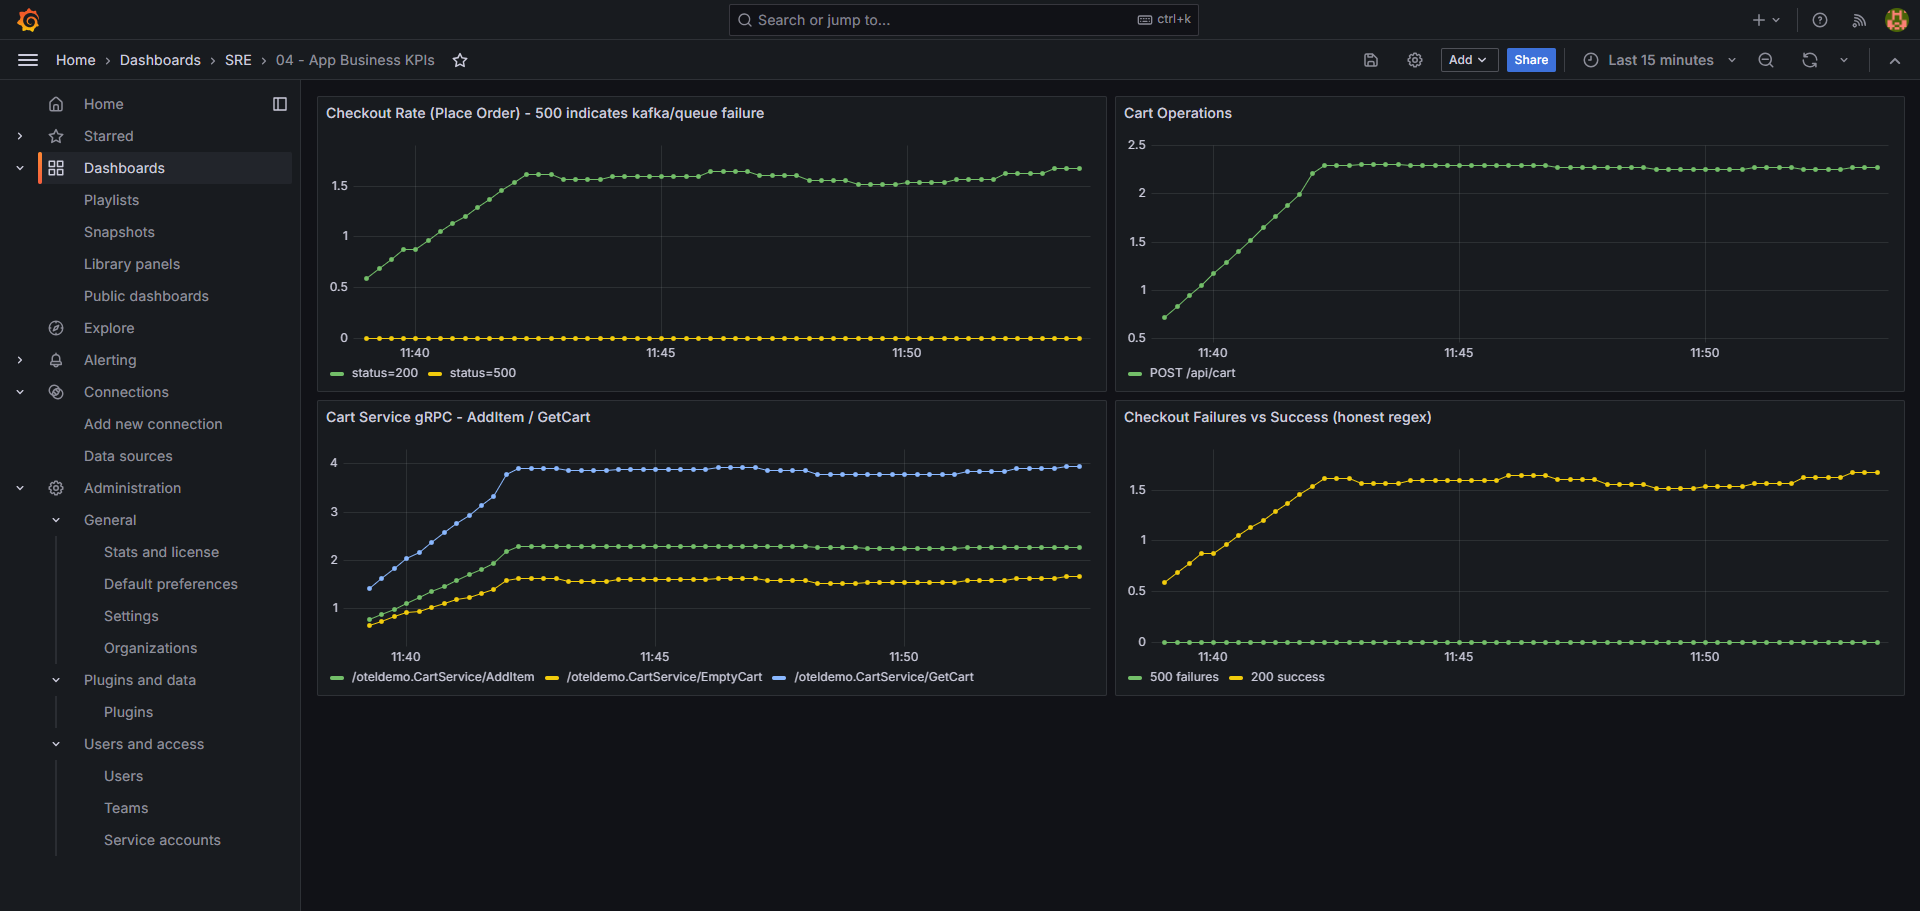
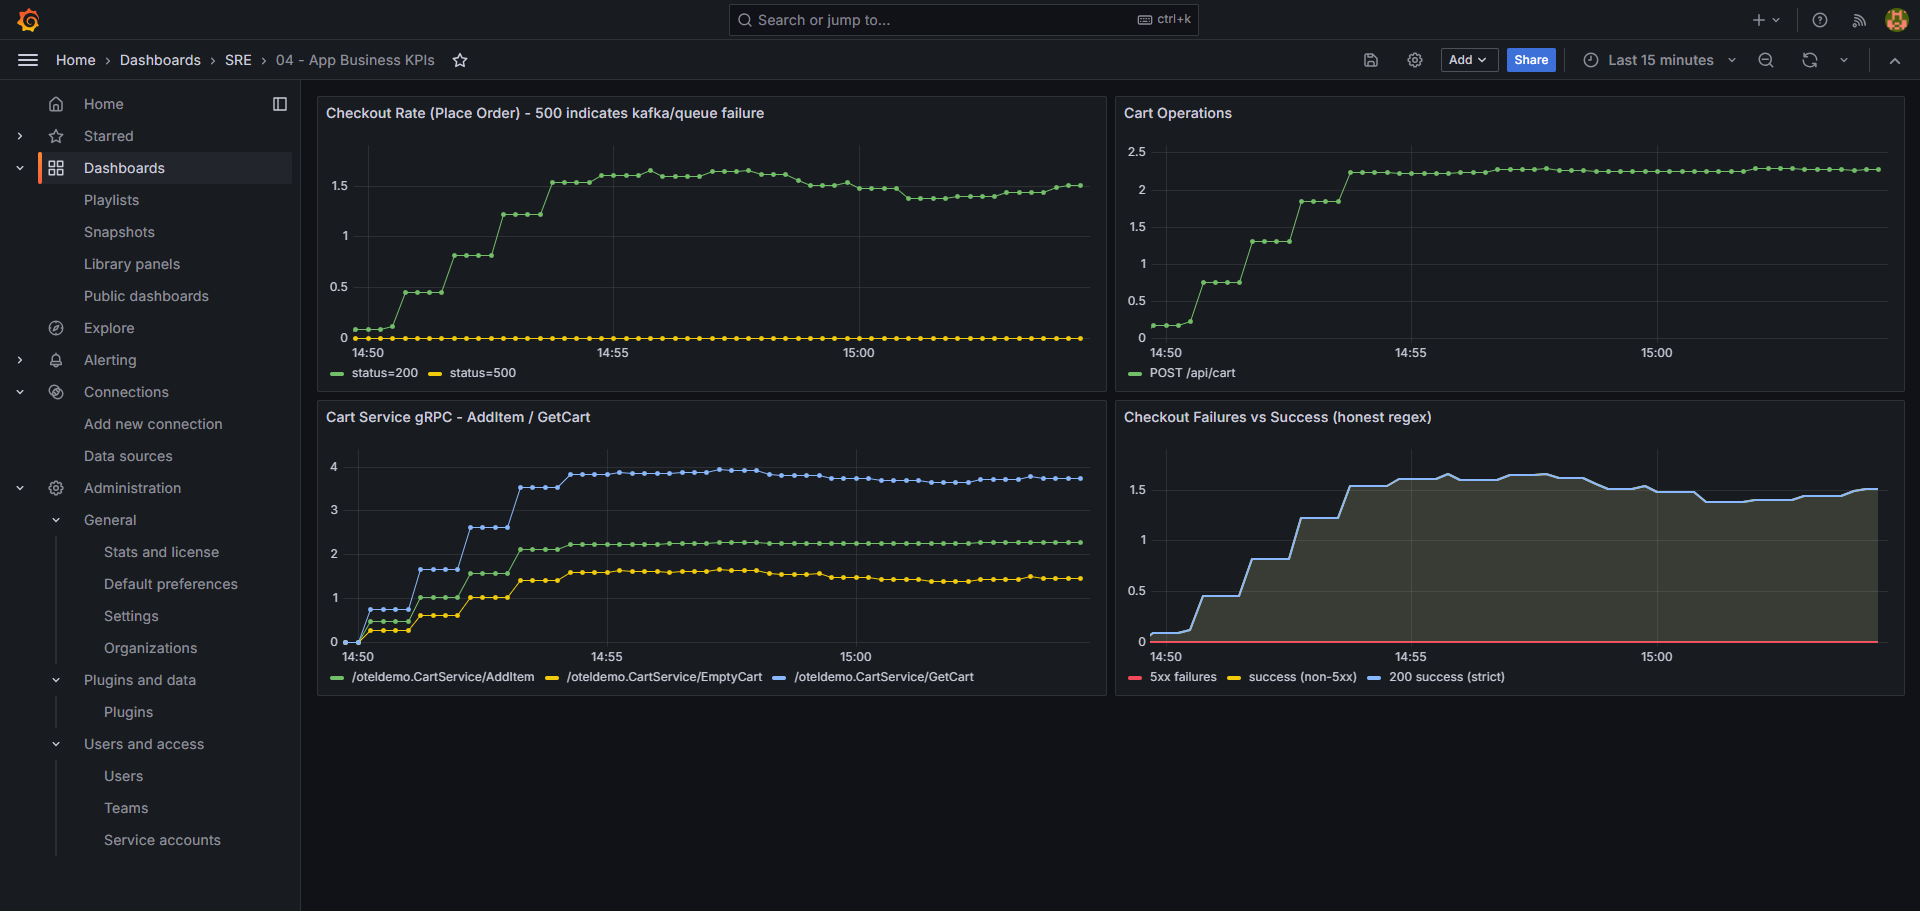
docs: update 05 business KPIs with honest regex - verified with load-test.ps1

diff --git a/README.md b/README.md
@@ -476,7 +476,7 @@ Full: [docs/architecture.md](./docs/architecture.md)
 
 ### 05 - Grafana - App Business KPIs (Checkout Rate, Cart gRPC)
 ![App Business KPIs](docs/images/v1.0/05-App-Business-KPIs.png)
-*Dashboard: 04 - App Business KPIs. Panels: `Checkout Rate (Place Order) - 500 indicates kafka/queue failure` showing `target=~".*checkout.*"`, `Cart Operations`, `Cart Service gRPC - AddItem / GetCart`, and `Checkout Failures vs Success (honest regex)` with `status=~"5.."` vs `!~"5.."`. 
+*Dashboard: 04 - App Business KPIs. Panels: `Checkout Rate` (`target=~".*checkout.*"`), `Cart Operations`, `Cart Service gRPC - AddItem / GetCart`, and `Checkout Failures vs Success (honest regex)` with `status=~"5.."` (5xx failures) vs `status=~"2.."` (success). Captures kafka/payment failure mode — catches 502/503, not just 500. Verified with `.\scripts\load-test.ps1 -Users 3`.*
 
 ### 06 - Grafana - Logs/Traces Correlation via Alloy
 ![Logs Traces](docs/images/v1.0/06-grafana-logs-traces.png)
@@ -493,6 +493,22 @@ Full: [docs/architecture.md](./docs/architecture.md)
 ### 09 - Alertmanager → Slack with runbook_url
 ![Slack Alert](docs/images/v1.0/09-slack-alertmanager.png)
 *Alertmanager routing `CheckoutSLOBurning` / `CheckoutSLOFastBurn` → Slack #alerts-sre with `runbook_url: docs/runbooks/checkout-slo-burning.md`. Slack shows RESOLVED after fix — MTTR closed loop.*
+
+---
+
+## How to Verify
+
+### Verify SLOs & Business KPIs (reproduces screenshots)
+
+Reproduces the v1.0 evidence (0% error, 100% success, 0x burn, ~101 orders/min):
+
+```powershell
+.\scripts\load-test.ps1 -Users 3
+```
+# -> Grafana: 00 - Master SRE - One Screen: Traffic ~3-4 rps, Error 0%, Success 100%, Burn 0x, Orders ~101/min
+# -> 04 - App Business KPIs: Checkout Rate 5xx=0, 2xx=1.51 rps, Cart gRPC AddItem/GetCart ~3.75 rps
+
+**Check:** grafana.local → Dashboards → SRE folder → 00 - Master SRE - One Screen and 04 - App Business KPIs
 
 ---
 
